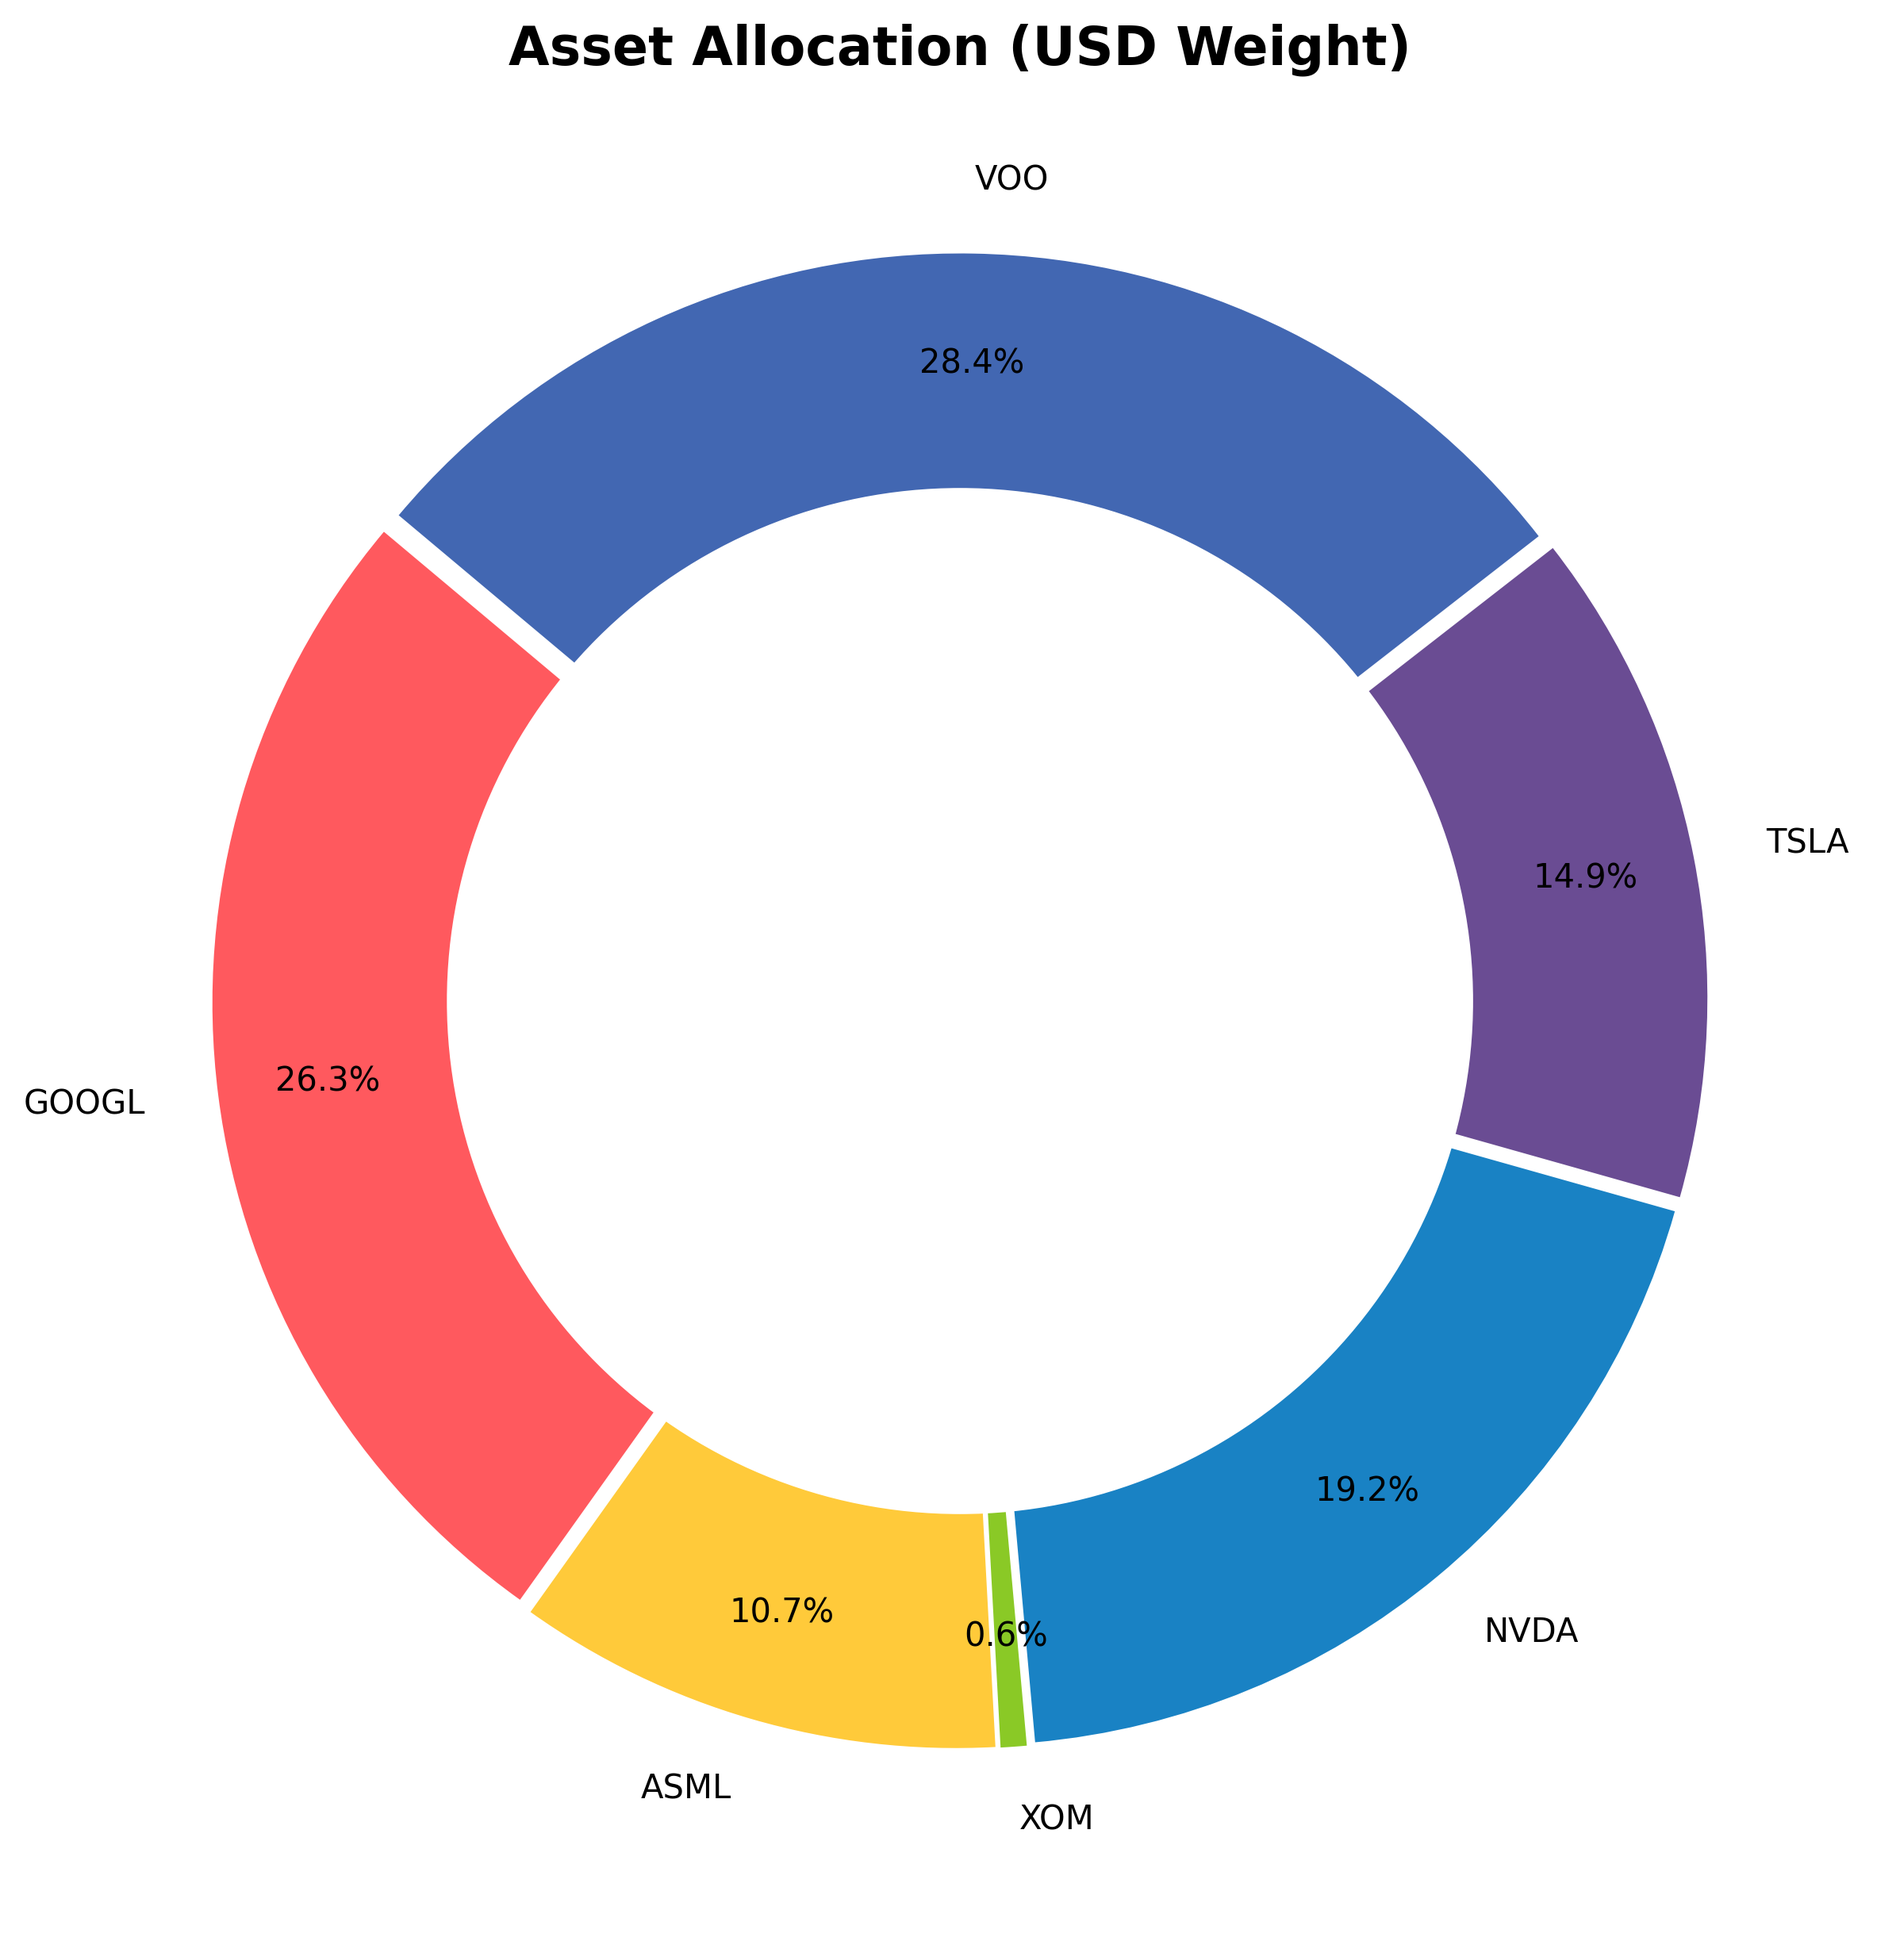
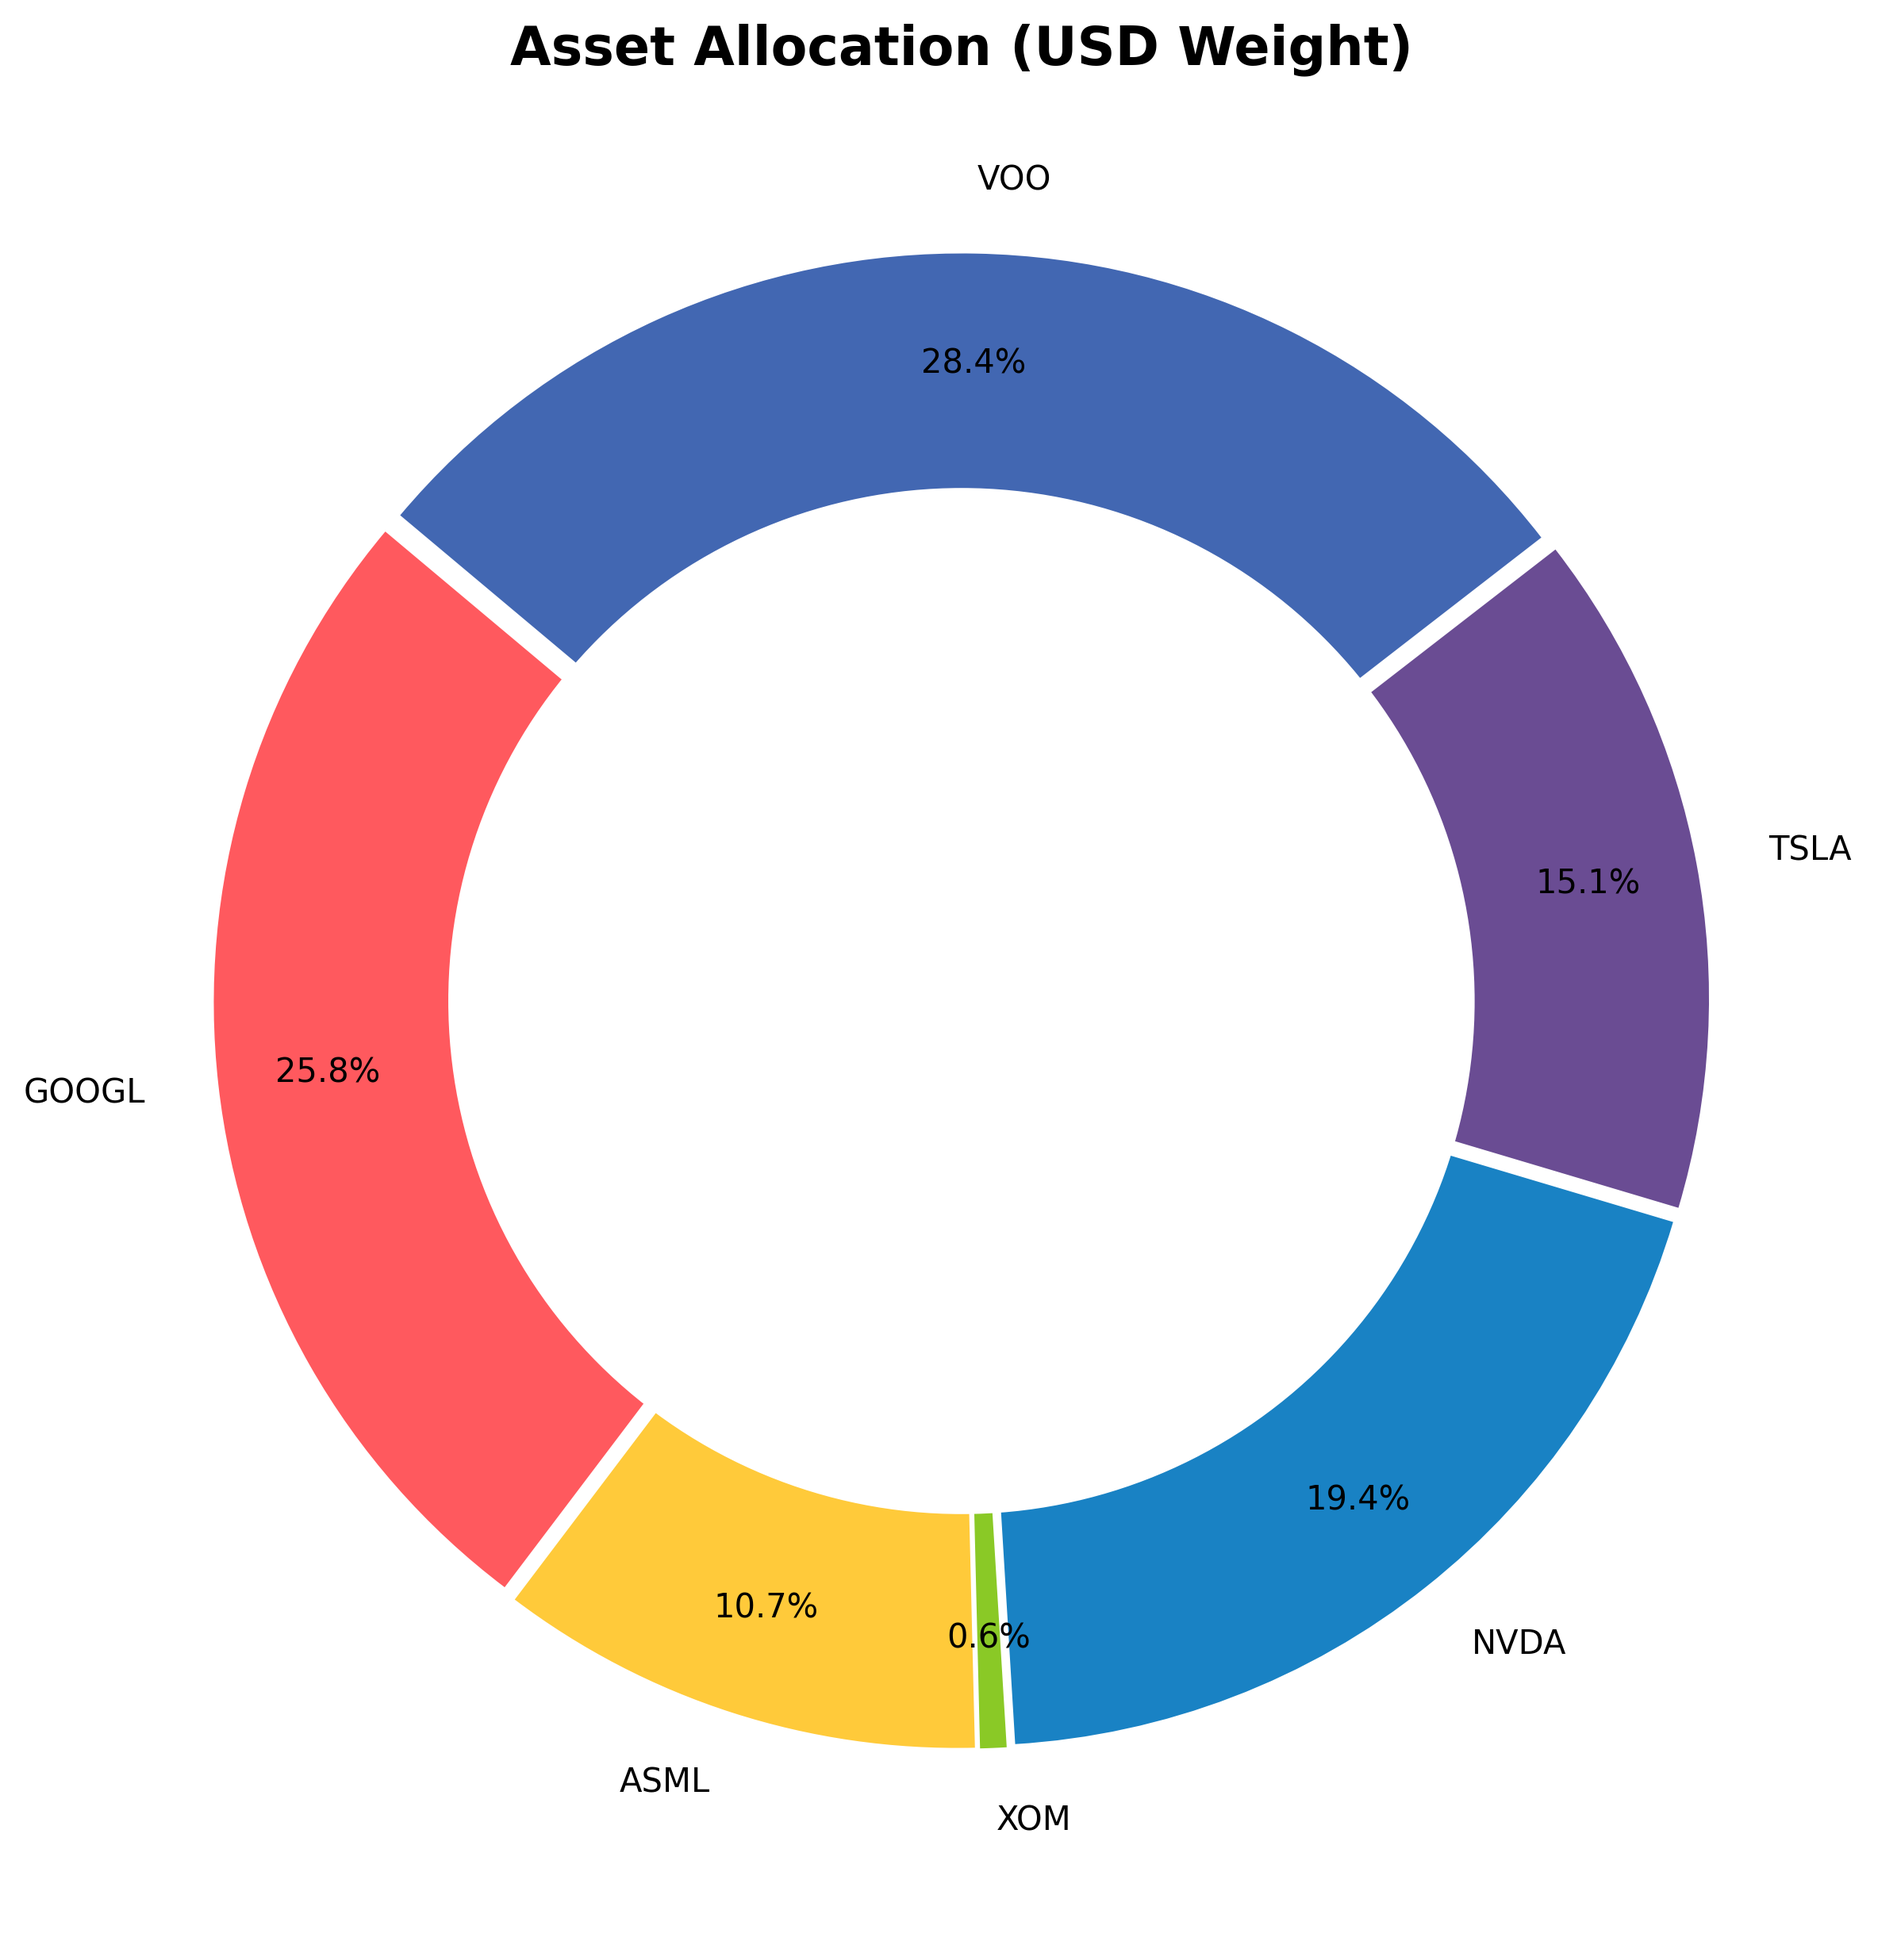
System Run: Analytics & Archive Update [skip ci]

diff --git a/README.md b/README.md
@@ -1,23 +1,23 @@
 # 📊 Portfolio Dashboard | מעקב תיק השקעות
-**Last Update:** 02/03/2026 16:50 | **USD/ILS:** ₪3.085
+**Last Update:** 02/03/2026 17:49 | **USD/ILS:** ₪3.087
 
 ## 💰 Portfolio Summary | סיכום התיק
 | Metric | Value | נתון |
 | :--- | :--- | :--- |
-| **Current Value** | `₪164,737` | **שווי נוכחי** |
-| **Total Invested** | `₪129,555` | **סך השקעה** |
-| **Total Profit/Loss** | `+27.16%` (₪35,182) | **רווח/הפסד כולל** |
-| **Daily Change** | `-0.04%` | **שינוי יומי** |
+| **Current Value** | `₪164,118` | **שווי נוכחי** |
+| **Total Invested** | `₪129,669` | **סך השקעה** |
+| **Total Profit/Loss** | `+26.57%` (₪34,449) | **רווח/הפסד כולל** |
+| **Daily Change** | `-0.51%` | **שינוי יומי** |
 
 ## 📜 Holdings | פירוט החזקות
 | Ticker | Shares | Avg. Cost | Current Price | P&L % | P&L ILS |
 | :--- | :--- | :--- | :--- | :--- | :--- |
-| GOOGL | 45 | $181.15 | $311.61 | 🟢 +72.02% | ₪18,109 |
-| ASML | 4 | $934.51 | $1,430.35 | 🟢 +53.06% | ₪6,118 |
-| XOM | 2 | $126.08 | $152.60 | 🟢 +21.03% | ₪164 |
-| NVDA | 57 | $148.62 | $179.83 | 🟢 +21.00% | ₪5,488 |
-| TSLA | 20 | $436.45 | $397.93 | 🔴 -8.83% | ₪-2,376 |
-| VOO | 24 | $527.38 | $631.12 | 🟢 +19.67% | ₪7,680 |
+| GOOGL | 45 | $181.15 | $304.83 | 🟢 +68.27% | ₪17,183 |
+| ASML | 4 | $934.51 | $1,421.37 | 🟢 +52.10% | ₪6,013 |
+| XOM | 2 | $126.08 | $153.97 | 🟢 +22.12% | ₪172 |
+| NVDA | 57 | $148.62 | $181.09 | 🟢 +21.85% | ₪5,714 |
+| TSLA | 20 | $436.45 | $401.41 | 🔴 -8.03% | ₪-2,164 |
+| VOO | 24 | $527.38 | $629.01 | 🟢 +19.27% | ₪7,531 |
 
 ## 📈 Charts | גרפים
 ![Performance](./data_hub/portfolio_performance.png)
